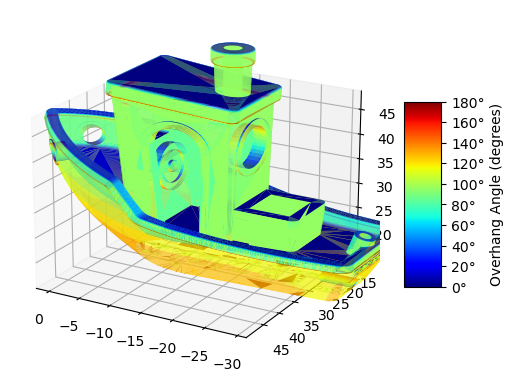
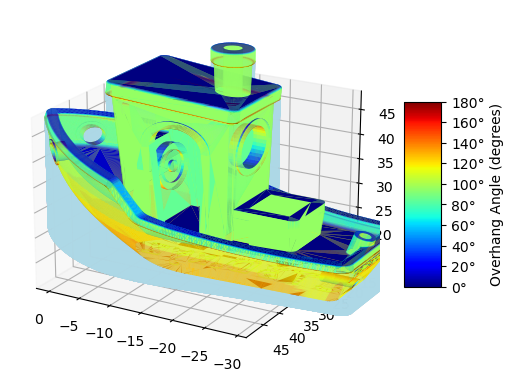
add: サポート材生成ロジックを追加

diff --git a/main.py b/main.py
@@ -48,7 +48,30 @@ def preprocess_mesh(mesh):
     mesh.apply_translation([0, 0, -min_z])
 
 
-def visualize(mesh, angles):
+def create_supports(mesh, angles):
+    support_prisms = []
+    z_min = mesh.bounds[0][2]  # XY平面のZ座標
+    for i, angle in enumerate(angles):
+        if 120 <= angle <= 180:
+            face = mesh.faces[i]
+            vertices = mesh.vertices[face]
+
+            # サポート材の頂点を作成
+            support_vertices = np.vstack(
+                (vertices, np.hstack((vertices[:, :2], np.full((3, 1), z_min)))))
+
+            # サポート材の面を作成
+            support_faces = [
+                [0, 1, 2], [3, 4, 5],  # 上面と下面
+                [0, 1, 4], [0, 4, 3],  # 側面
+                [1, 2, 5], [1, 5, 4],
+                [2, 0, 3], [2, 3, 5]
+            ]
+            support_prisms.append((support_vertices, support_faces))
+    return support_prisms
+
+
+def visualize(mesh, angles, support_prisms):
     fig = plt.figure()
     ax = fig.add_subplot(111, projection='3d')
 
@@ -68,6 +91,12 @@ def visualize(mesh, angles):
         mesh.vertices[mesh.faces], facecolors=face_colors)
     ax.add_collection3d(mesh_collection)
 
+    # サポート材の可視化
+    for vertices, faces in support_prisms:
+        support_collection = Poly3DCollection(
+            [vertices[face] for face in faces], facecolors='lightblue', alpha=0.5)
+        ax.add_collection3d(support_collection)
+
     min_bounds, max_bounds = mesh.bounds
     ax.auto_scale_xyz(min_bounds, max_bounds, max_bounds)
 
@@ -84,7 +113,7 @@ def visualize(mesh, angles):
 
     # PNGファイルとして保存
     plt.savefig('3DBenchy_supports_with_legend.png', bbox_inches='tight')
-    plt.show()
+    # plt.show()
 
 
 def main(model_stl_file_path):
@@ -99,11 +128,20 @@ def main(model_stl_file_path):
     # オーバーハング角度を計算
     angles = calculate_support_volume(model_mesh)
 
+    # サポート材を作成
+    support_prisms = create_supports(model_mesh, angles)
+
+    # サポート材の体積を計算
+    support_volumes = [trimesh.Trimesh(vertices=vertices, faces=faces).volume
+                       for vertices, faces in support_prisms]
+
     print(f'モデルメッシュの頂点数: {len(model_mesh.vertices)}')
     print(f'モデルの体積: {model_volume} 立方単位')
+    print(f'サポート材の数: {len(support_prisms)}')
+    print(f'サポート材の体積の合計: {np.sum(support_volumes)} 立方単位')
 
     # 可視化
-    visualize(model_mesh, angles)
+    visualize(model_mesh, angles, support_prisms)
 
 
 # 使用例
